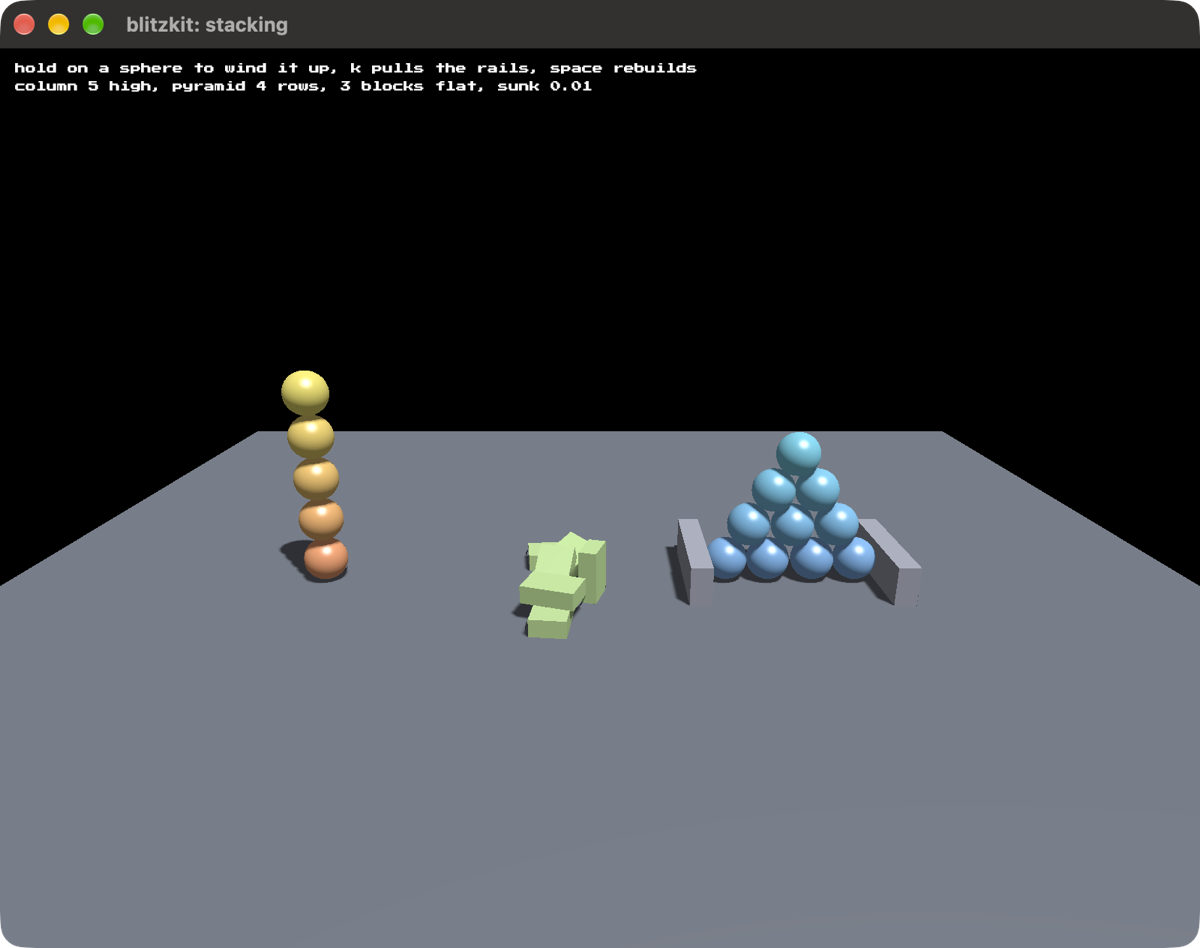
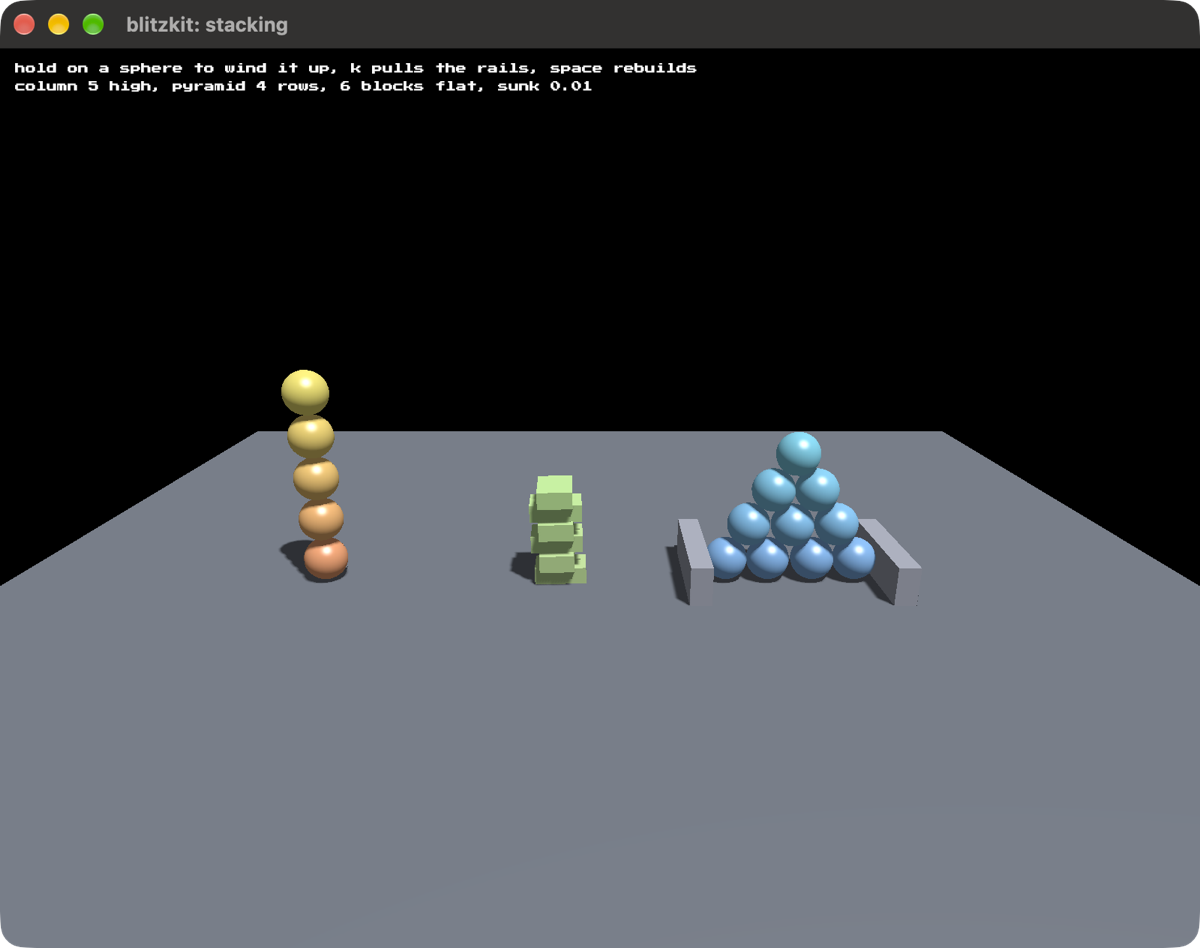
Stack the blocks instead of dropping them in a heap
The middle pile of the stacking example was six blocks dropped from staggered
heights with a turn each, so they landed on each other. That demonstrates
something real for about a second and then shows a clump for ever, and the
clump is what this engine's readme had a picture of.

They are a stack now, squared up and each course turned across the one under
it, resting from the first frame. Face on face at four points, which is a thing
the solver has to hold up rather than a thing that has already fallen over.

media/stacking.png regenerated from it.

Changed region(s): [[0.4008, 0.4895, 0.5242, 0.673]]

diff --git a/examples/stacking.rs b/examples/stacking.rs
@@ -105,6 +105,9 @@ const WINDING: f32 = 1.5;
 /// long, 0.4 thick and 0.8 wide: clearly not a cube, so which way up it lands
 /// is something you can see.
 const BLOCK: Vec3 = vec3(0.6, 0.2, 0.4);
+
+/// How many blocks are in the stack.
+const BLOCKS: usize = 6;
 const HEAP_AT: f32 = -1.0;
 const COLUMN_AT: f32 = -6.5;
 const PYRAMID_AT: f32 = 4.5;
@@ -122,9 +125,15 @@ const RISE: f32 = (RADIUS * 2.0 + GAP) * 0.866;
 enum Pile {
     Column,
     Pyramid,
-    /// Blocks, which spec 0035 lets touch things. Dropped rather than placed,
-    /// because the thing worth watching is that they land on their faces and
-    /// settle into a heap instead of a smear.
+    /// Blocks, which spec 0035 lets touch things. Stacked, each course turned
+    /// across the one under it, so the contact is face on face at four points
+    /// and the stack is a thing the solver has to hold up rather than a thing
+    /// that has already fallen over.
+    ///
+    /// They were dropped from staggered heights with a turn each, to watch them
+    /// land on their faces and settle. That is a second of the demonstration
+    /// and then a clump for ever, and a clump is what the readme's picture of
+    /// this engine showed.
     Heap,
 }
 
@@ -248,21 +257,18 @@ fn build() -> (Vec<Body>, Vec<Pile>) {
         }
     }
 
-    // and a heap of blocks, dropped from a little way up and turned a bit each,
-    // so they land on each other rather than in a neat pile
-    for n in 0..6 {
-        let turn = n as f32 * 0.9;
+    // and a stack of blocks, squared up and each course across the one under
+    // it, resting from the first frame rather than dropped into place
+    for n in 0..BLOCKS {
         bodies.push(
             Body::block(
-                vec3(
-                    HEAP_AT + (n % 2) as f32 * 0.25 - 0.12,
-                    0.6 + n as f32 * 0.6,
-                    (n % 3) as f32 * 0.25 - 0.25,
-                ),
+                vec3(HEAP_AT, BLOCK.y + n as f32 * (BLOCK.y * 2.0 + GAP), 0.0),
                 BLOCK,
                 1.0,
             )
-            .facing(Quat::from_rotation_y(turn))
+            .facing(Quat::from_rotation_y(
+                (n % 2) as f32 * std::f32::consts::FRAC_PI_2,
+            ))
             .with_restitution(0.0)
             .with_friction(0.7),
         );

diff --git a/README.md b/README.md
@@ -4,6 +4,9 @@ In which I develop a wrapper around wgpu-rs to create a graphics development eng
 
 2d _and_ 3d. I've got a few games built on it so far.
 
+I hand built this engine, and I built my versions of pong and snake using it. After those
+two I started working with AI to take it further. Most of the 3d mechanics were already there. (Thanks past me)
+
 Feel free to follow along!
 
 ## Games built on it
